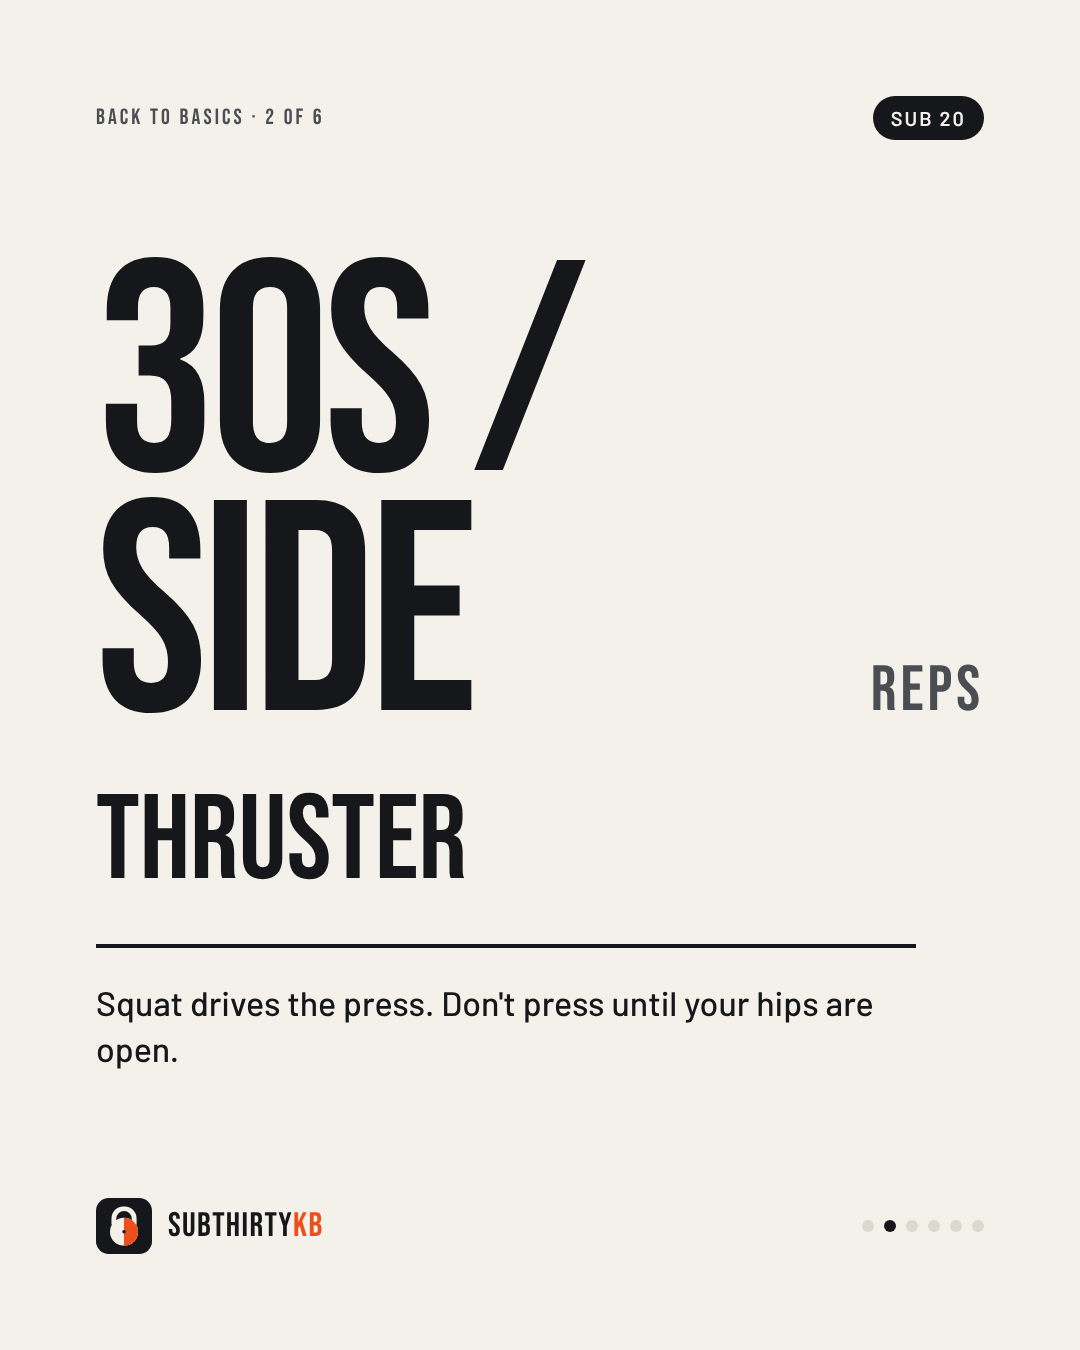
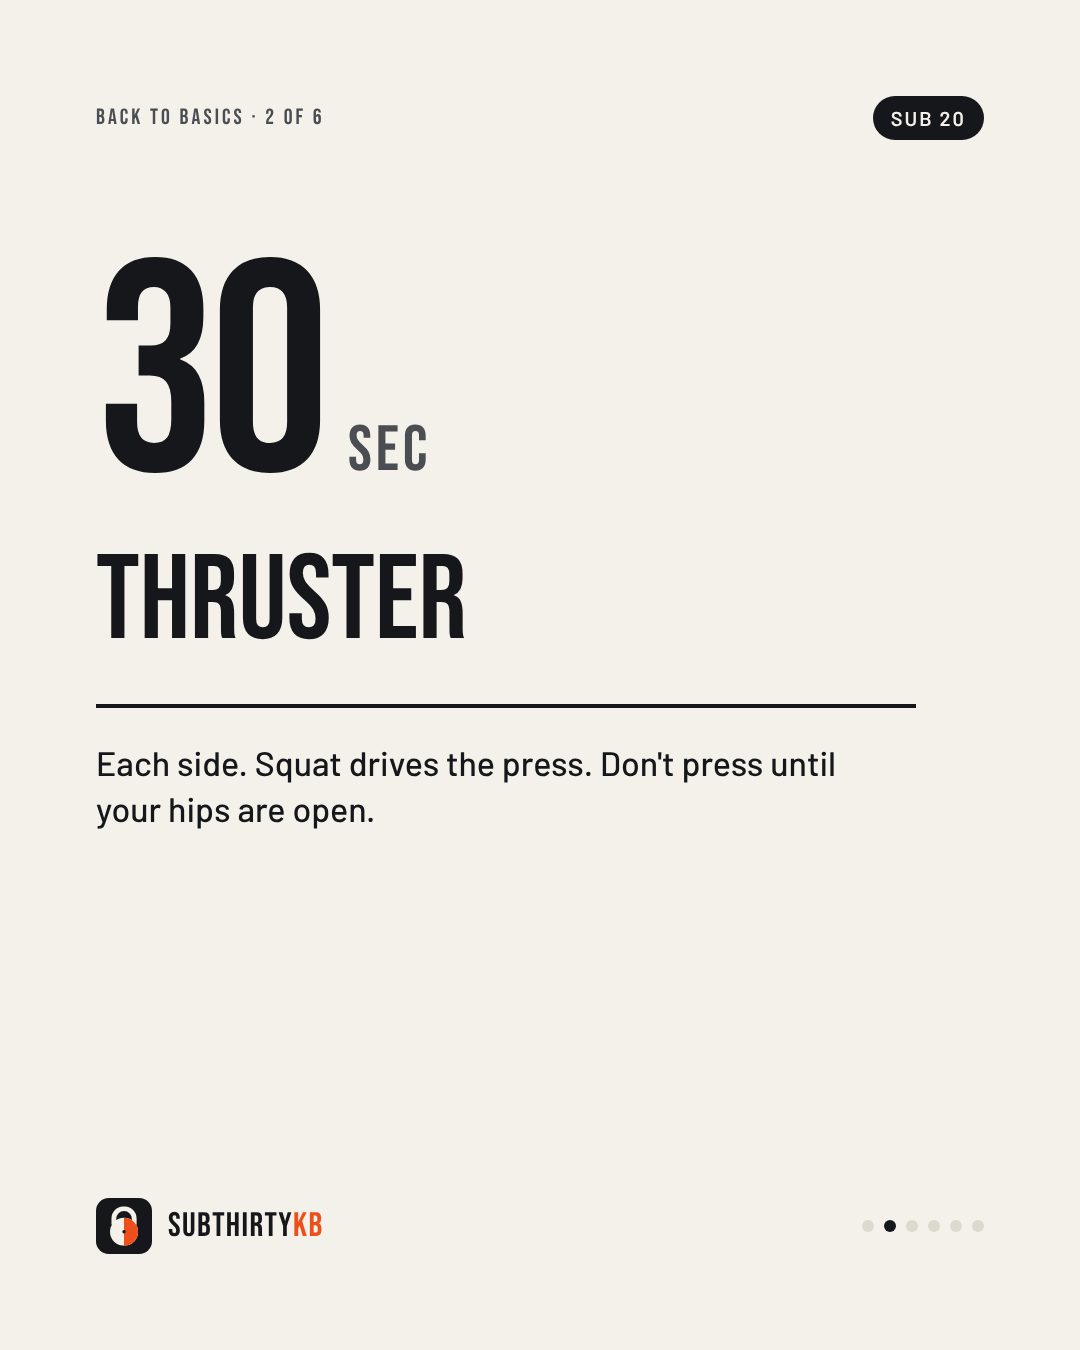
Week of Nov 9: fix timed carousel slides (SEC label instead of REPS), re-render
Claude-Session: https://claude.ai/code/session_013jHtKnfcvopHWznMN6tVkf

diff --git a/templates/carousel.html b/templates/carousel.html
@@ -12,7 +12,8 @@
 {% set m = p.moves[slide-1] %}
 <div class="root bone" style="width:1080px;height:1350px">
   {{ top(p.tags, p.short ~ ' · ' ~ (slide+1) ~ ' of ' ~ total) }}
-  <div class="hero" style="margin-top:120px;gap:24px"><span class="n" style="color:#15171A">{{ rep(m[1]) }}</span><span class="l muted">REPS</span></div>
+  {% set rv = m[1]|string|trim %}{% set secs = rv[-1:]|lower == 's' and rv[:-1]|trim|int(-1) >= 0 %}
+  <div class="hero" style="margin-top:120px;gap:24px"><span class="n" style="color:#15171A">{{ rv[:-1]|trim if secs else rep(m[1]) }}</span><span class="l muted">{{ 'SEC' if secs else 'REPS' }}</span></div>
   <h1 class="h1" style="margin-top:48px;font-size:120px">{{ m[0] }}</h1>
   <div style="margin-top:48px;padding-top:32px;border-top:4px solid #15171A;max-width:820px"><p class="body" style="font-size:34px;line-height:46px">{{ m[2] }}</p></div>
   <div class="foot">{{ lockup(false) }}<span style="display:inline-flex;gap:10px">{% for i in range(total) %}<i style="width:12px;height:12px;border-radius:50%;background:{{ '#15171A' if i==slide else '#DCD9CE' }}"></i>{% endfor %}</span></div>
